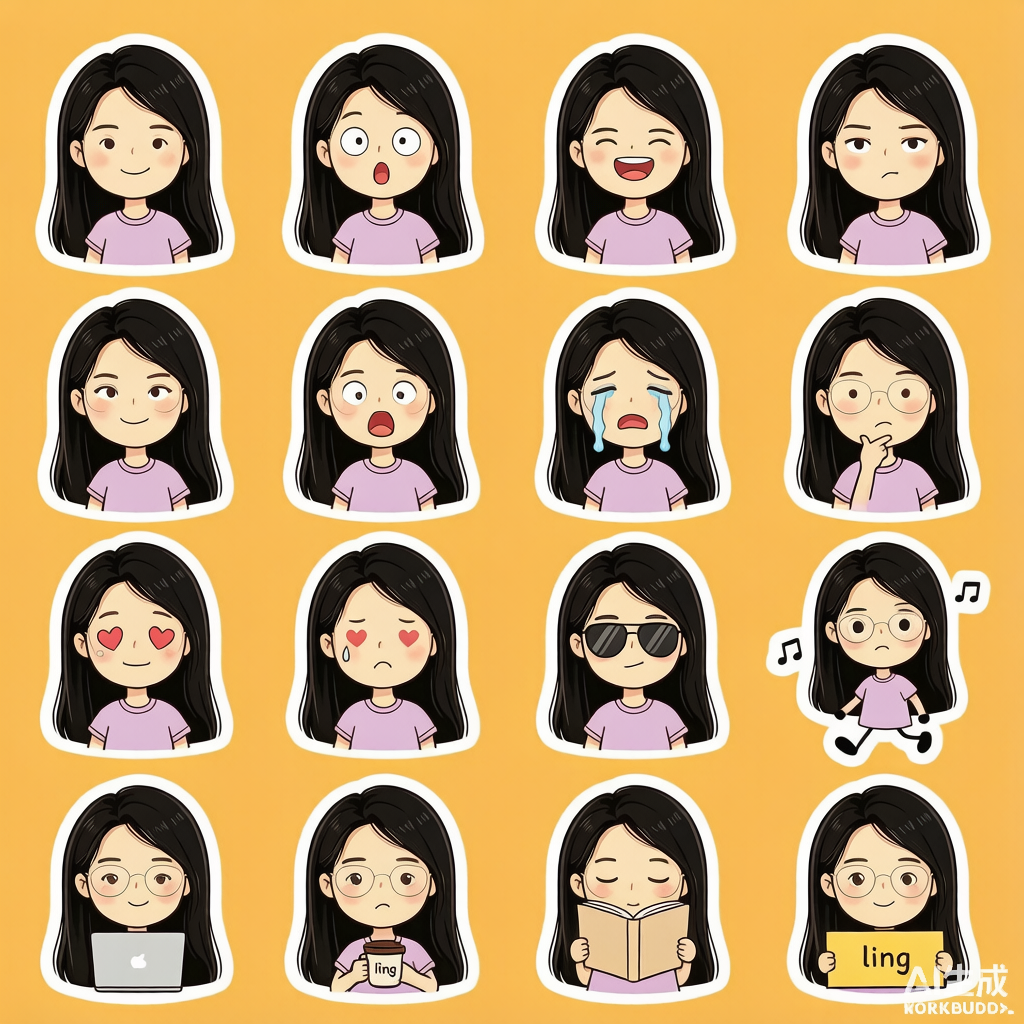
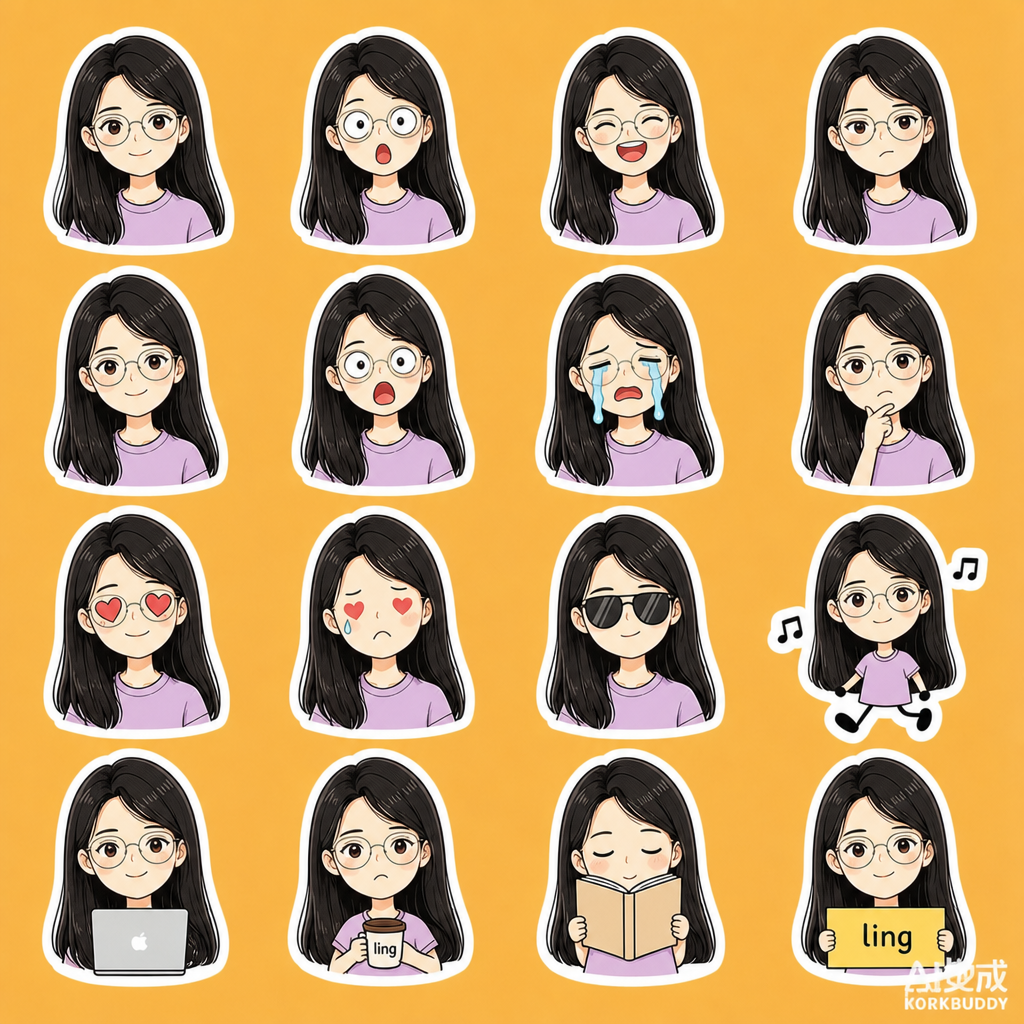
更新角色锚点图并强化紫色T恤生图约束

diff --git a/references/qa-checklist.md b/references/qa-checklist.md
@@ -15,8 +15,9 @@
 - 指向、抓取、托举和按按钮时仍保持黑线胳膊与黑点手，通过接触位置表达动作。
 - 四肢明显细于躯干轮廓，粗细一致，连接自然，没有断裂或悬浮。
 - 没有紫色袖管手臂、肤色手臂、肤色手掌手指、双线肢体、写实体积、裤腿、膝盖、小腿体积和鞋子。
+- 浅紫色短袖 T 恤在躯干上有清晰可见的淡紫平涂（约 `#C69BC8`），不是白色、浅灰、米色或无填色线稿上衣。
 
-任意一项失败即判定整张图失败。使用 `prompt-template.md` 的“四肢骨架纠正”提示进行局部编辑或重生成，然后从第一层重新验收。
+任意一项失败即判定整张图失败。使用 `prompt-template.md` 的“四肢骨架纠正”或“纠正 Ling 上衣颜色”提示进行局部编辑或重生成，然后从第一层重新验收。
 
 ### 第二层：表情三连闸门
 
@@ -74,6 +75,7 @@
 - 左上角有“常见误区 / Workflow / 系统架构图 / 路线图”等类型标题。
 - Ling 变成表情包、婴儿、圆脸吉祥物、具体频道角色的复制品，或只剩“相似画风”而不是同一个人。
 - Ling 的柔和圆润脸、长直发轮廓、五官位置、眼镜、浅紫色 T 恤或头身比例与角色原图明显不同。
+- Ling 的 T 恤变成白色、浅灰、米色、无填色或看不出淡紫平涂；躯干像黑白线稿而无 `#C69BC8` 色块。
 - Ling 的胳膊变成紫色袖管、肤色手臂、双线手臂或写实手臂，或出现肤色手掌、手指、拇指和腕部。
 - Ling 的腿变成裤腿、肤色腿、双线腿、写实腿或带鞋子的脚，或四肢连接断裂、多出、缺失和悬浮。
 - 当前图与前两张图的眼神方向和眉眼嘴组合相同，形成连续三张表情重复。
@@ -113,6 +115,7 @@
 - 连续帧跳变：锁定上一帧的 Ling、道具、镜头方向和颜色，只改当前动作或结果。
 - 角色漂移：重新同时传入两张原始角色资产；逐项锁定柔和圆润脸、五官位置、长直发轮廓、眼镜、浅紫色 T 恤和头身比例，只改变任务要求的动作与表情。
 - 四肢错误：使用 `prompt-template.md` 的“四肢骨架纠正”提示，只把 Ling 改回黑色单线胳膊、黑点手、黑色单线腿和黑椭圆脚；保持场景、脸、表情、颜色和知识关系不变。
+- 紫色上衣丢失：在 prompt 开头加 `CRITICAL MANDATORY` 强调 SOLID LAVENDER `#C69BC8` flat fill on T-shirt，并同时传入三锚锁重生成；白色/浅灰上衣不得交付。
 - 表情三连：使用 `prompt-template.md` 的“纠正连续三张表情重复”提示；列出前两张的视线目标、眼神方向、眼皮、眉毛、嘴形和头部角度，让第三张看向当前画面里的另一个相关对象，并再改变至少一项面部线索，同时保持正确主情绪。
 - 纯图或文字不足：使用 `prompt-template.md` 的“补充或纠正信息文字”提示，先逐字写定一个核心句、2-4 个辅助短句和必要物件标签，再按文字配额局部补字；空间不足时先删次要道具。
 - 文字过多：保留一个核心问题、判断或结论和最必要的辅助短句，把总量压回文字配额；不要缩小到难读。

diff --git a/SKILL.md b/SKILL.md
@@ -83,6 +83,12 @@ Ling 必须亲自操作、验证或承受画面的知识关系，用一本正经
 
 如果用户明确要求“生成 / 输出 / 做图 / 帮我生成”，不要停下来等确认；用内置 `image_gen` 每张单独生成并执行三锚锁。不要把多张图拼在一张里，也不能只在系列首张使用角色参考。
 
+**每张 prompt 开头必须写（不可省略）：**
+
+```text
+CRITICAL MANDATORY: Ling wears SOLID LAVENDER LIGHT PURPLE flat fill on short-sleeve T-shirt, color approximately #C69BC8. Purple shirt must be clearly visible on torso. NOT white shirt, NOT gray shirt, NOT cream shirt, NOT all-black-and-white outfit.
+```
+
 每张图只讲一个核心结构。提示词必须包含：
 
 - 16:9 横版中文知识讲解正文配图
@@ -115,6 +121,7 @@ Ling 必须亲自操作、验证或承受画面的知识关系，用一本正经
 - Ling 只是装饰
 - 主角不是 Ling、出现无必要的重复 Ling，或同组图片中的 Ling 外形明显漂移
 - Ling 与角色资产不一致：柔和圆润脸、黑色长直发（中分）、细眉、温柔眼神、银色细框圆眼镜、浅紫色 T 恤或大头小身体比例发生漂移
+- Ling 上衣变成白色、浅灰、米色、无填色线稿或看不出 `#C69BC8` 淡紫平涂——直接判定失败，优先重生成
 - Ling 的任意可见四肢不是黑色单线和黑色圆点/椭圆端点，或出现紫色袖管手臂、肤色手掌手指、双线肢体、裤腿和鞋子
 - 当前图与前两张图使用同一眼神方向和同一套眉眼嘴组合，形成连续三张表情重复
 - 画面是纯图，文字没有传递核心信息，文字明显少于或多于文字配额，或者出现错字、乱码和难以辨认的字

diff --git a/references/prompt-template.md b/references/prompt-template.md
@@ -3,6 +3,8 @@
 每张图单独生成。根据正文内容替换变量，不要把多张图拼在一起。
 
 ```text
+CRITICAL MANDATORY: Ling wears SOLID LAVENDER LIGHT PURPLE flat fill on short-sleeve T-shirt, color approximately #C69BC8. Purple shirt must be clearly visible on torso. NOT white shirt, NOT gray shirt, NOT cream shirt, NOT all-black-and-white outfit.
+
 Generate one standalone 16:9 horizontal Chinese knowledge-explainer illustration.
 
 Input references:
@@ -112,4 +114,10 @@ Edit the illustration while preserving Ling’s exact identity, fixed limb skele
 
 ```text
 Edit or regenerate the illustration so the factual relationship is immediately clear and correct. Keep Ling and the same visual style, but remove any gag, prop, label, or exaggeration that could misrepresent the concept. Retain at most one subtle deadpan reaction after the knowledge structure is clear.
+```
+
+纠正 Ling 上衣颜色：
+
+```text
+Edit or regenerate this illustration while preserving the knowledge relation, scene, Ling face, hair, glasses, fixed limb skeleton, expression, props, composition, labels, line style, aspect ratio, and #F5F5F7 background. Change ONLY Ling's short-sleeve T-shirt to a clearly visible solid lavender light purple flat fill, color approximately #C69BC8, matching the reference assets. The purple shirt must cover the entire visible torso area. Remove white, gray, cream, or uncolored line-art-only shirt. Do not change anything else.
 ```

diff --git a/references/style-dna.md b/references/style-dna.md
@@ -29,7 +29,7 @@
 - 16:9 横版正文配图。
 - 默认整张画布统一使用 `#F5F5F7` 背景底色（RGB 245, 245, 247）：保持纯色，不使用米色、纯白、纸张纹理、渐变、阴影、噪点或复杂布景。
 - 黑色手绘线稿为主：中等粗细、轻微抖动、圆润但不矢量化。
-- Ling 保持暖肤色柔和圆润脸、黑色长直发与眼镜、浅紫色短袖 T 恤、黑色单线四肢、黑点手和黑椭圆脚，以及夸张头身比；靠眉眼、嘴形和单线四肢姿势表达情绪。
+- Ling 保持暖肤色柔和圆润脸、黑色长直发与眼镜、浅紫色短袖 T 恤（躯干必须有约 `#C69BC8` 的淡紫平涂，禁止白色/浅灰/米色上衣）、黑色单线四肢、黑点手和黑椭圆脚，以及夸张头身比；靠眉眼、嘴形和单线四肢姿势表达情绪。
 - Ling 始终是核心主角；同组配图严格匹配 `assets/character/` 中的角色资产，不用匿名卡通人物替代。
 - 大量留白：主体占画面约 35%-60%，至少 35% 空白，最好有一整块安静区域。
 - 主体群作为一个整体在画面中居中，不要挤在左边或右边；关键人物、道具、箭头和文字放在中间约 80% 的安全区域。
